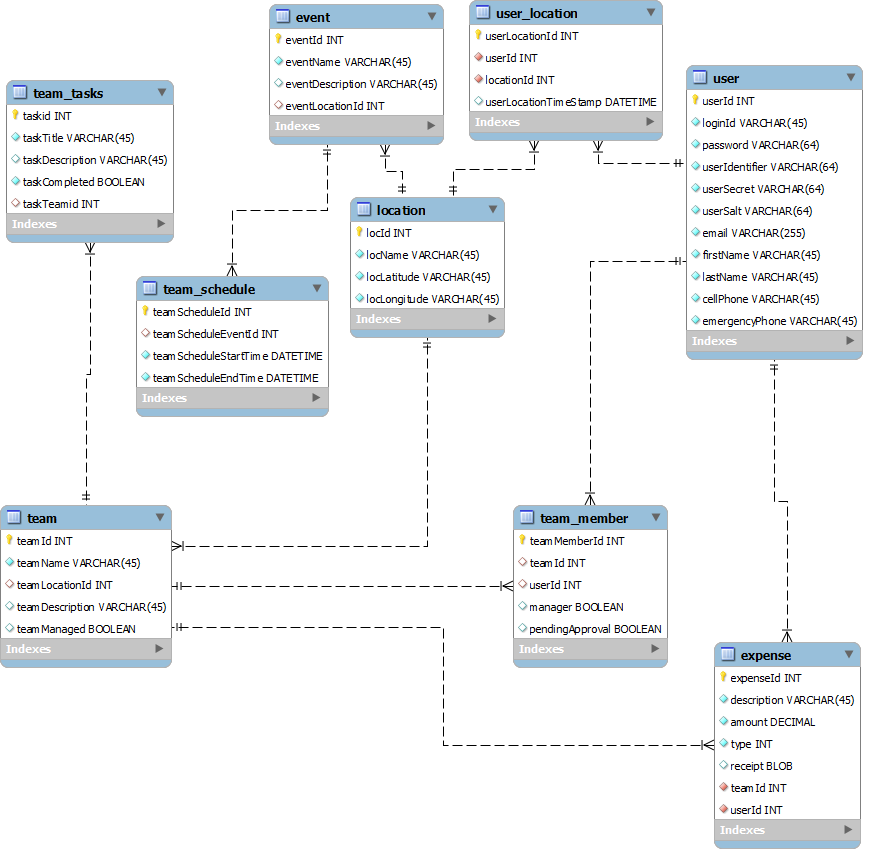
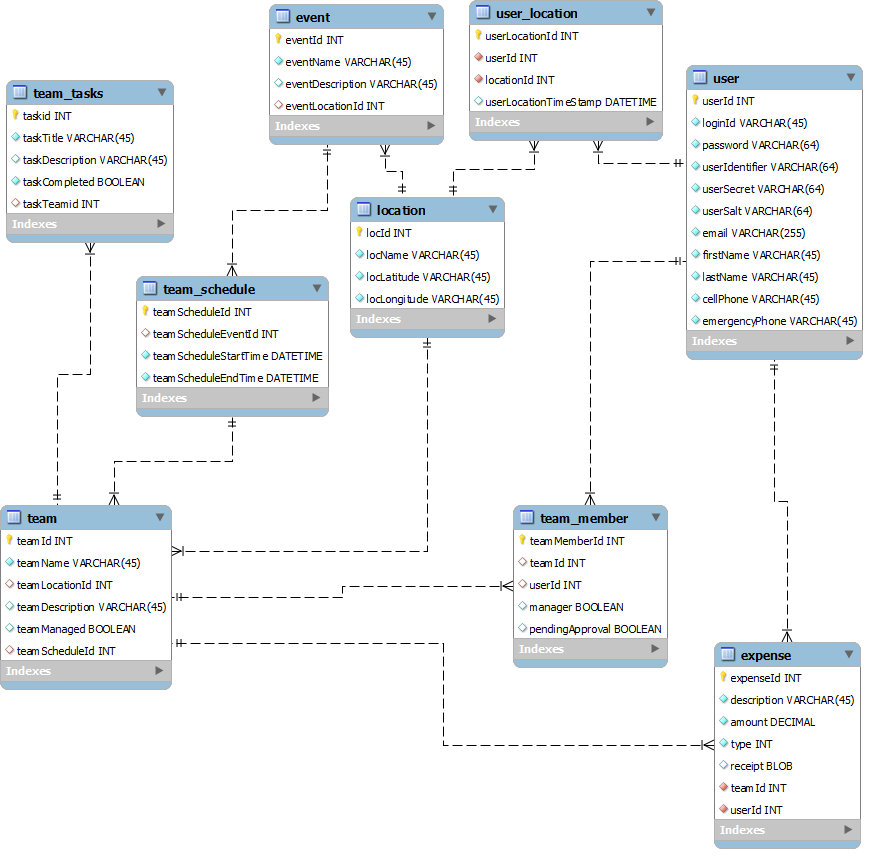
Database and API changes
Made database changes. Started implementing Location and Team Tasks part
of API so I can continue development on some features for team part of
API.

Changed region(s): [[0.0, 0.7154, 0.2143, 0.8088], [0.1837, 0.6221, 0.2143, 0.6532], [0.1224, 0.5599, 0.1531, 0.591]]

diff --git a/API/api/pub/models/Team.php b/API/api/pub/models/Team.php
@@ -13,7 +13,7 @@
         public $teamDescription;
         public $teamManaged;
         
-        public function_construct() {
+        public function __construct() {
             $this->initialize();
         }
         
@@ -26,7 +26,7 @@
         }
         
         public function InsertTeam() {
-            $query = sprintf("insert into team (teamName,teamLocationId,teamDescription,teamManaged) values ('%s','%d','%s','%s')",
+            $query = sprintf("insert into team (teamName,teamLocationId,teamDescription,teamManaged) values ('%s',%d,'%s','%s')",
                 myEsc($this->teamName),
                 myEsc($this->teamLocationId),
                 myEsc($this->teamDescription),
@@ -35,6 +35,10 @@
             mysql_query($query, $db);
             
             $id = mysql_insert_id();
+            
+            if($id>=0) {
+                $this->userId = $id;
+            }
             
             return $id;
         }
@@ -96,7 +100,7 @@
         
         public function SelectTeamFromTeamName($teamName, $loginId) {
             global $db;
-            
+            $tTeam = new Team;
             $query = "select userId from user where loginId = '" . myEsc($loginId) ."'";
             $sql = mysql_query($query, $db);
             if(mysql_num_rows($sql) > 0) {
@@ -153,7 +157,7 @@
                 $getTeamIdResult = array();
                 while($getTeamIdResult = mysql_fetch_array($sql, MYSQL_ASSOC)) {
                     $teamId = $getTeamIdResult['teamId'];
-                    $query = sprintf("select * from team where teamId = " . myEsc($teamId);
+                    $query = sprintf("select teamId, teamName from team where teamId = " . myEsc($teamId);
                     while($getTeamInfoResult = mysql_fetch_array($sql, MYSQL_ASSOC) {
                         $teamInfoResult = array();
                         $teamInfoResult[] = $getTeamInfoResult;
@@ -161,8 +165,7 @@
                             $tTeam->$item = $value;                            
                         }
                         $teamList[] = $tTeam;
-                    }
-                    
+                    }                    
                 }              
             }
             
@@ -202,7 +205,7 @@
         
         public function DeleteTeam($teamId) {
             global $db;
-            if($teamId) }
+            if($teamId) {
                 $query = "delete from team where teamId = " . myEsc($teamId);
                 $sql = mysql_query($query, $db);
                 return $sql;

diff --git a/API/api/pub/models/TeamTasks.php b/API/api/pub/models/TeamTasks.php
@@ -1,0 +1,59 @@
+<?php
+    include_once('/home/awayteam/api/pub/apiconfig.php');
+    
+    class TeamTasks
+    {
+        //Attributes
+        public $taskId;
+        public $taskTitle;
+        public $taskDescription;
+        public $taskCompleted;
+        public $taskTeamId
+        
+        public function __construct() {
+            $this->initialize();
+        }
+        
+        public function initialize() {
+            $this->taskId = -999;
+            $this->taskTitle = "";
+            $this->taskDescription = "";
+            $this->taskCompleted =false;
+            $this->taskTeamId = -999;            
+        }
+        
+        public function InsertTeamTask() {
+            $query = sprintf("insert into team_tasks (taskTitle, taskDescription, taskCompleted, taskTeamId) values ('%s', '%s','%s',%d)",
+                    myEsc($this->taskTitle),
+                    myEsc($this->taskDescription),
+                    myEsc($this->taskCompleted),
+                    myEsc($this->taskTeamId));
+            
+            mysql_query($query, $db);
+            
+            $id = mysql_insert_id();
+            
+            if(id >=0) {
+                $this->taskId = $id;
+            }
+            
+            return $id;
+        }
+        
+        public function MarkTeamTaskComplete($taskId) {
+            global $db;
+            $query = "update team_tasks set taskCompleted = true where taskId = " . myEsc($this->taskId);
+            $sql = mysql_query($query,$db);
+            return $sql;
+        }
+        
+        public function DeleteTeamTask($taskId) {
+            global $db;
+            if($taskId) {
+                $query = "delete from team_tasks where taskId = " .myEsc($taskId);
+                $sql = mysql_query($query, $db);
+                return $sql;
+            }
+        }
+    }
+?>

diff --git a/API/api/pub/models/TeamMembers.php b/API/api/pub/models/TeamMembers.php
@@ -1,5 +1,6 @@
 <?php
     include_once('/home/awayteam/api/pub/apiconfig.php');
+    include_once('/home/awayteam/api/pub/models/TeamMembersUtilities.php');
     
     class TeamMember
     {
@@ -10,8 +11,8 @@
         public $manager
         public $pendingApproval;
         
-        public function_construct() {
-            this->initialize();
+        public function __construct() {
+            $this->initialize();
         }
         
         public initialize() {
@@ -23,8 +24,7 @@
         }
         
         public function InsertTeamMember() {
-            $query = sprintf("insert into team_member (teamMemberId, teamId, userId, manager, pendingApproval) values ('%d','%d','%s','%s')",
-                myEsc($this->teamMemberId),
+            $query = sprintf("insert into team_member (teamId, userId, manager, pendingApproval) values (%d,%d,'%s','%s')",               
                 myEsc($this->teamId),
                 myEsc($this->userId),
                 myEsc($this->manager),
@@ -34,6 +34,10 @@
                 mysql_query($query, $db);
                 
                 $id = mysql_insert_id();
+                
+                if(id >=0) {
+                    $this->userId = $id;
+                }
                 
                 return $id;
         }

diff --git a/API/api/pub/models/Location.php b/API/api/pub/models/Location.php
@@ -55,6 +55,29 @@
             }
         }
         
+        public function SelectLocationFromLocationId($locationId) {
+            global $db;
+            $tLocation = new Location;
+            
+            $query = "select * from location where locId = " . myEsc($locationId);
+            $sql = mysql_query($query, $db);
+            $result = array();
+            
+            if(mysql_num_rows($sql) > 0) {
+                $result[] = $rlt;
+                
+                while($row = mysql_fetch_array($sql, MYSQL_ASSOC)) {
+                    $result[] = $rlt;
+                }
+                
+                foreach($result[0] as $item=>$value) {
+                    $tLocation->$item=$value;
+                }
+            }
+            
+            return $tLocation;
+        }
+        
         public function DeleteLocation($locId) {
             global $db;
             if($locId) }

diff --git a/API/api/pub/controllers/LocationController.php b/API/api/pub/controllers/LocationController.php
@@ -1,0 +1,25 @@
+<?php
+    
+    //Owner: David Vu
+    
+    require_once('/home/awayteam/api/pub/models/Team.php');
+    require_once('/home/awayteam/api/pub/apiconfig.php');
+    
+    class LocationController extends LocationController
+    {
+        public function CreateLocation($locationParametersArray) {
+            $aLocation = new Location;
+            $aLocation = arrayToObject($teamParametersArray);
+            $newLocationId = $aLocation->InsertLocation();
+        }
+        
+        public function GetAllLocations() {
+            return $this->SelectAllLocations();
+        }
+        
+        public function GetLocationFromId($locId) {
+            return this->SelectLocationFromLocationId($locId);
+        }
+    }
+    
+?>

diff --git a/API/api/pub/team_api.php b/API/api/pub/team_api.php
@@ -3,14 +3,14 @@
     header("Access-Control-Allow-Origin: *");
     
     require_once("Rest.inc.php");
-    require_once("controllers/UserController.php")
+    require_once("controllers/TeamController.php")
     
-    class API extends REST 
+    class TeamAPI extends REST 
     {
         public $data = "";
         
         public function processApi() {
-            $func = strtolower(trim(str_replace("/","_",$_REQUEST['rquest'])));
+            $func = strtolower(trim(str_replace("/","_",$_REQUEST['request'])));
             list ($group, $myFunc) = explode("_", $func);
             $myFunc = $group . "_" . $myFunc;
             if((int)method_exists($this,$myFunc) > 0) {
